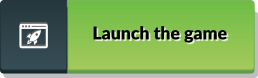
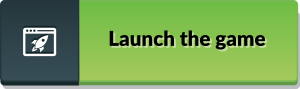
add main menu

Changed region(s): [[0.0, 0.0, 1.0, 1.0], [0.3411, 0.3333, 0.8992, 0.5897], [0.062, 0.2821, 0.2171, 0.641]]

diff --git a/src/scripts/scenes/mainMenuScene.ts b/src/scripts/scenes/mainMenuScene.ts
@@ -1,0 +1,103 @@
+import 'phaser';
+
+export default class MainMenuScene extends Phaser.Scene {
+    constructor() {
+        super({ key: 'MainMenuScene' });
+    }
+
+    preload() {
+        this.load.image('play', 'assets/buttons/play.png');
+        this.load.image('play-focus', 'assets/buttons/play-focus.png');
+        this.load.image('character', 'assets/buttons/character.png');
+        this.load.image('character-focus', 'assets/buttons/character-focus.png');
+        this.load.image('options', 'assets/buttons/options.png');
+        this.load.image('options-focus', 'assets/buttons/options-focus.png');
+        this.load.image('credits', 'assets/buttons/credits.png');
+        this.load.image('credits-focus', 'assets/buttons/credits-focus.png');
+
+        this.load.image('bg', 'assets/main-menu-background.jpg');
+        this.load.image('title', 'assets/main-menu-game-titletitle2.png');
+    }
+
+    create() {
+        console.log('Main Menu');
+        this.cameras.main.fadeIn();
+
+        const screenCenterX = this.cameras.main.worldView.x + this.cameras.main.width / 2;
+        const screenCenterY = this.cameras.main.worldView.y + this.cameras.main.height / 2;
+
+        let bg = this.add.image(screenCenterX, screenCenterY, 'bg');
+        bg.setDisplaySize(this.cameras.main.width, this.cameras.main.height);
+
+        this.cameras.main.backgroundColor = Phaser.Display.Color.HexStringToColor('#008080');
+
+        let title = this.add.image(200, screenCenterY - 100, 'title');
+        title.setOrigin(0, 0.5);
+
+        let buttonDistance = 100;
+        let firstButtonY = 400;
+        let buttonsX = window.innerWidth - 200;
+
+        let play = this.add.sprite(buttonsX, firstButtonY, 'play').setInteractive();
+        play.setOrigin(1, 1);
+        let character = this.add.sprite(buttonsX, firstButtonY + buttonDistance, 'character').setInteractive();
+        character.setOrigin(1, 1);
+        let options = this.add.sprite(buttonsX, firstButtonY + buttonDistance * 2, 'options').setInteractive();
+        options.setOrigin(1, 1);
+        let credits = this.add.sprite(buttonsX, firstButtonY + buttonDistance * 3, 'credits').setInteractive();
+        credits.setOrigin(1, 1);
+
+        play.on(Phaser.Input.Events.POINTER_OVER, () => {
+            play.setTexture('play-focus');
+        });
+        play.on(Phaser.Input.Events.POINTER_OUT, () => {
+            play.setTexture('play');
+        });
+        play.on(Phaser.Input.Events.POINTER_DOWN, () => {
+            play.setTexture('play');
+        });
+        play.on(Phaser.Input.Events.POINTER_UP, () => {
+            play.setTexture('install-focus');
+            this.scene.start('GameScene');
+        });
+
+        character.on(Phaser.Input.Events.POINTER_OVER, () => {
+            character.setTexture('character-focus');
+        });
+        character.on(Phaser.Input.Events.POINTER_OUT, () => {
+            character.setTexture('character');
+        });
+        character.on(Phaser.Input.Events.POINTER_DOWN, () => {
+            character.setTexture('character');
+        });
+        character.on(Phaser.Input.Events.POINTER_UP, () => {
+            character.setTexture('character-focus');
+        });
+
+        options.on(Phaser.Input.Events.POINTER_OVER, () => {
+            options.setTexture('options-focus');
+        });
+        options.on(Phaser.Input.Events.POINTER_OUT, () => {
+            options.setTexture('options');
+        });
+        options.on(Phaser.Input.Events.POINTER_DOWN, () => {
+            options.setTexture('options');
+        });
+        options.on(Phaser.Input.Events.POINTER_UP, () => {
+            options.setTexture('options-focus');
+        });
+
+        credits.on(Phaser.Input.Events.POINTER_OVER, () => {
+            credits.setTexture('credits-focus');
+        });
+        credits.on(Phaser.Input.Events.POINTER_OUT, () => {
+            credits.setTexture('credits');
+        });
+        credits.on(Phaser.Input.Events.POINTER_DOWN, () => {
+            credits.setTexture('credits');
+        });
+        credits.on(Phaser.Input.Events.POINTER_UP, () => {
+            credits.setTexture('credits-focus');
+        });
+    }
+}

diff --git a/src/scripts/scenes/gameScene.ts b/src/scripts/scenes/gameScene.ts
@@ -1,0 +1,75 @@
+import * as configs from './../game';
+
+export default class GameScene extends Phaser.Scene {
+    fpsText: Phaser.GameObjects.Text;
+    logo1: Phaser.Types.Physics.Arcade.ImageWithDynamicBody;
+
+    constructor() {
+        super({ key: 'GameScene' });
+    }
+
+    preload() {
+        this.load.image('phaser-logo', 'assets/img/phaser-logo.png');
+        this.load.image('logo1', 'assets/img/coder-1.png');
+        this.load.image('logo2', 'assets/img/coder-2.png');
+        this.load.image('phaser', 'assets/img/phaser-dude.png');
+        this.load.image('fps', 'assets/img/fps.png');
+    }
+
+    create() {
+        this.cameras.main.fadeIn(2000);
+        this.cameras.main.setBackgroundColor(configs.mainSceneBackground);
+
+        const screenCenterX = this.cameras.main.worldView.x + this.cameras.main.width / 2;
+        const screenCenterY = this.cameras.main.worldView.y + this.cameras.main.height / 2;
+
+        this.logo1 = this.physics.add.image(screenCenterX, 500, 'logo1');
+        this.logo1.setOrigin(0.5, 0.5);
+        this.logo1.setScale(0.3);
+        this.logo1.body.setAllowGravity(false);
+
+        const logo2 = this.add.sprite(screenCenterX, 500, 'logo2');
+        logo2.setScale(0.3);
+
+        var tween = this.tweens.add({
+            targets: this.logo1,
+            angle: 360.0,
+            duration: 8500,
+            repeat: -1
+        });
+
+        var txt = this.add.text(screenCenterX, 290, 'Bine ati venit la atelierele CoderDojo!');
+        txt.setOrigin(0.5, 1);
+        txt.setColor('#8888ff');
+        txt.setFontFamily('VT323');
+        txt.setFontSize(60);
+
+        var txt = this.add.text(screenCenterX, 350, '- Phaser 3 în TypeSript -');
+        txt.setOrigin(0.5, 1);
+        txt.setColor('#0000ff');
+        txt.setFontFamily('VT323');
+        txt.setFontSize(40);
+
+        // display the Phaser.VERSION
+        let dude = this.physics.add.image(this.cameras.main.width - 265, 40, 'phaser');
+        dude.setOrigin(1, 0.5);
+
+        this.add
+            .text(this.cameras.main.width - 15, 40, `Phaser v${Phaser.VERSION}`, {
+                color: '#0000ff',
+                fontSize: '28px',
+                fontStyle: 'bold'
+            })
+            .setOrigin(1, 0.5);
+
+        let fps = this.physics.add.image(15, 40, 'fps');
+        fps.setOrigin(0, 0.5);
+
+        this.fpsText = this.add.text(90, 40, '', { color: '#0000ff', fontSize: '28px', fontStyle: 'bold' });
+        this.fpsText.setOrigin(0, 0.5);
+    }
+
+    update(time, delta) {
+        this.fpsText.setText(`fps: ${Math.floor(this.game.loop.actualFps)}`);
+    }
+}

diff --git a/pwa/sw.js b/pwa/sw.js
@@ -14,32 +14,32 @@ precacheAndRoute(self.__WB_MANIFEST);
 
 self.addEventListener('install', (evt) => {
     console.log('PWA install...');
-    evt.waitUntil(
-        caches.open('static').then((cache) => {
-            // prettier-ignore
-            return cache.addAll([
-                '/favicon.ico',
-                '/index.html',
-                '/main.bundle.js',
-                '/manifest.webmanifest',
-                '/sw.js',
-                'vendors.bundle.js',
-                '/icons/icons-192.png',
-                '/icons/icons-512.png',
-                '/assets/buttons/install.png',
-                '/assets/buttons/install-focus.png',
-                '/assets/buttons/start.png',
-                '/assets/buttons/start-focus.png',
-                '/assets/buttons/launch.png',
-                '/assets/buttons/launch-focus.png',
-                '/assets/img/coder-1.png',
-                '/assets/img/coder-2.png',
-                '/assets/img/fps.png',
-                '/assets/img/phaser-dude.png',
-                '/assets/img/phaser-logo.png'
-            ]);
-        })
-    );
+    // evt.waitUntil(
+    //     caches.open('static').then((cache) => {
+    //         // prettier-ignore
+    //         return cache.addAll([
+    //             '/favicon.ico',
+    //             '/index.html',
+    //             '/main.bundle.js',
+    //             '/manifest.webmanifest',
+    //             '/sw.js',
+    //             'vendors.bundle.js',
+    //             '/icons/icons-192.png',
+    //             '/icons/icons-512.png',
+    //             '/assets/buttons/install.png',
+    //             '/assets/buttons/install-focus.png',
+    //             '/assets/buttons/start-browser.png',
+    //             '/assets/buttons/start-browser-focus.png',
+    //             '/assets/buttons/launch.png',
+    //             '/assets/buttons/launch-focus.png',
+    //             '/assets/img/coder-1.png',
+    //             '/assets/img/coder-2.png',
+    //             '/assets/img/fps.png',
+    //             '/assets/img/phaser-dude.png',
+    //             '/assets/img/phaser-logo.png'
+    //         ]);
+    //     })
+    // );
 });
 
 self.addEventListener('activate', (evt) => {

diff --git a/src/scripts/scenes/preloadScene.ts b/src/scripts/scenes/preloadScene.ts
@@ -1,4 +1,3 @@
-import MainScene from './mainScene';
 import * as configs from './../game';
 
 declare var beforeinstallevent: any;
@@ -17,8 +16,8 @@ export default class PreloadScene extends Phaser.Scene {
     preload() {
         this.load.image('install', 'assets/buttons/install.png');
         this.load.image('install-focus', 'assets/buttons/install-focus.png');
-        this.load.image('start', 'assets/buttons/start.png');
-        this.load.image('start-focus', 'assets/buttons/start-focus.png');
+        this.load.image('start', 'assets/buttons/start-browser.png');
+        this.load.image('start-focus', 'assets/buttons/start-browser-focus.png');
         this.load.image('launch', 'assets/buttons/launch.png');
         this.load.image('launch-focus', 'assets/buttons/launch-focus.png');
     }
@@ -73,7 +72,7 @@ export default class PreloadScene extends Phaser.Scene {
         this.scale.displaySize.resize(window.innerWidth, window.innerHeight);
         this.scale.scaleMode = Phaser.Scale.ScaleModes.FIT;
         this.physics.world.setBounds(0, 0, window.innerWidth, window.innerHeight);
-        this.scene.start('MainScene');
+        this.scene.start('MainMenuScene');
     }
 
     update() {

diff --git a/src/scripts/game.ts b/src/scripts/game.ts
@@ -1,6 +1,7 @@
 import 'phaser';
-import MainScene from './scenes/mainScene';
+import GameScene from './scenes/gameScene';
 import PreloadScene from './scenes/preloadScene';
+import MainMenuScene from './scenes/mainMenuScene';
 
 const DEFAULT_WIDTH = 500;
 const DEFAULT_HEIGHT = 500;
@@ -8,7 +9,7 @@ export const preloadSceneBackground = '#008080';
 export const mainSceneBackground = '#ffffff';
 
 //PreloadScene - Fixed
-export const preloadScene = {
+export const phaserConfiguration = {
     type: Phaser.WEBGL,
     backgroundColor: '#008080',
     scale: {
@@ -21,7 +22,7 @@ export const preloadScene = {
     render: {
         pixelArt: false
     },
-    scene: [PreloadScene, MainScene],
+    scene: [PreloadScene, MainMenuScene, GameScene],
     physics: {
         default: 'arcade'
     }
@@ -56,5 +57,5 @@ export const preloadScene = {
 // };
 export let game: Phaser.Game;
 window.addEventListener('load', () => {
-    game = new Phaser.Game(preloadScene);
+    game = new Phaser.Game(phaserConfiguration);
 });
